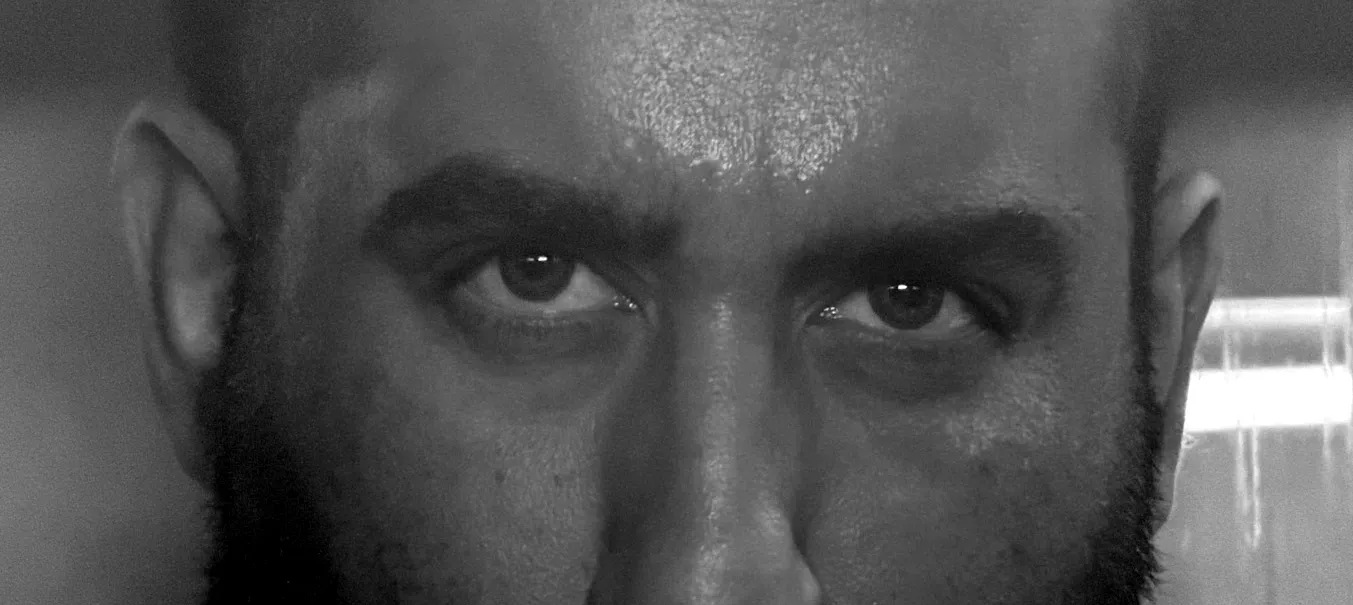
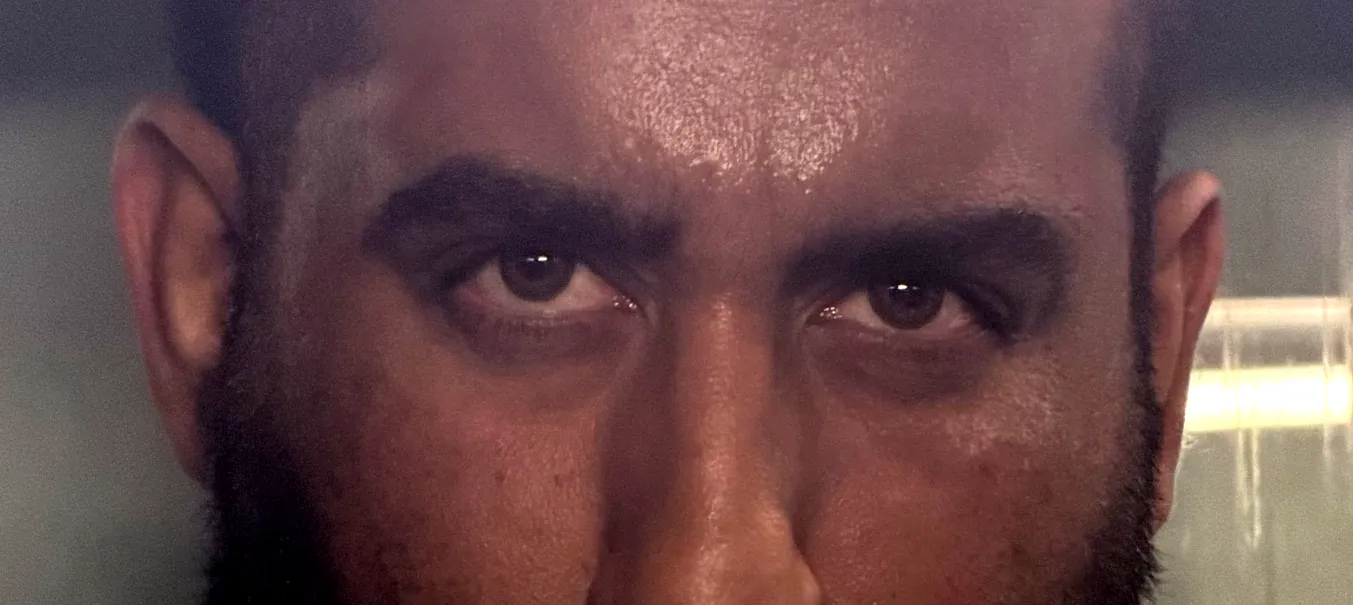
chore(actor): keep the elevator portraits in colour
Claude-Session: https://claude.ai/code/session_01ApzBe16aJShhTuUfapNU8M

diff --git a/portfolio/actor/index.html b/portfolio/actor/index.html
@@ -59,7 +59,7 @@
 <link rel="stylesheet" href="../css/style.css?v=75" />
 <link rel="stylesheet" href="../css/enhance.css" />
 <link rel="stylesheet" href="../css/upgrade.css?v=3" />
-<link rel="stylesheet" href="css/dramas.css?v=3" />
+<link rel="stylesheet" href="css/dramas.css?v=4" />
 </head>
 <body>
 
@@ -374,12 +374,12 @@
     </div>
     <div class="frames__wall">
       <figure class="frame" data-reveal><picture><source srcset="assets/frames/mirror.webp" type="image/webp" /><img src="assets/frames/mirror.jpg" alt="Adeel Rahman adjusting his shirt, sunglasses in hand" width="1000" height="1333" loading="lazy" decoding="async" /></picture><figcaption>Before the call</figcaption></figure>
-      <figure class="frame" data-reveal><picture><source srcset="assets/frames/stare.webp" type="image/webp" /><img src="assets/frames/stare.jpg" alt="Adeel Rahman, black-and-white close-up" width="1000" height="738" loading="lazy" decoding="async" /></picture><figcaption>Close-up</figcaption></figure>
+      <figure class="frame" data-reveal><picture><source srcset="assets/frames/stare.webp" type="image/webp" /><img src="assets/frames/stare.jpg" alt="Adeel Rahman, close-up" width="1000" height="738" loading="lazy" decoding="async" /></picture><figcaption>Close-up</figcaption></figure>
       <figure class="frame" data-reveal><picture><source srcset="assets/frames/lights-1.webp" type="image/webp" /><img src="assets/frames/lights-1.jpg" alt="Adeel Rahman in a navy blazer under amber pendant lights" width="845" height="1811" loading="lazy" decoding="async" /></picture><figcaption>Evening</figcaption></figure>
       <figure class="frame" data-reveal><picture><source srcset="assets/frames/lobby-3.webp" type="image/webp" /><img src="assets/frames/lobby-3.jpg" alt="Adeel Rahman in aviators and a navy blazer" width="771" height="1273" loading="lazy" decoding="async" /></picture><figcaption>Off duty</figcaption></figure>
       <figure class="frame" data-reveal><picture><source srcset="assets/frames/tailored.webp" type="image/webp" /><img src="assets/frames/tailored.jpg" alt="Adeel Rahman, full length, striped shirt and dark trousers" width="609" height="1687" loading="lazy" decoding="async" /></picture><figcaption>Fitted</figcaption></figure>
       <figure class="frame" data-reveal><picture><source srcset="assets/frames/lobby-1.webp" type="image/webp" /><img src="assets/frames/lobby-1.jpg" alt="Adeel Rahman in aviator sunglasses" width="744" height="1126" loading="lazy" decoding="async" /></picture><figcaption>Shades on</figcaption></figure>
-      <figure class="frame" data-reveal><picture><source srcset="assets/frames/profile.webp" type="image/webp" /><img src="assets/frames/profile.jpg" alt="Adeel Rahman, black-and-white, eyes to camera" width="1000" height="800" loading="lazy" decoding="async" /></picture><figcaption>The look</figcaption></figure>
+      <figure class="frame" data-reveal><picture><source srcset="assets/frames/profile.webp" type="image/webp" /><img src="assets/frames/profile.jpg" alt="Adeel Rahman, eyes to camera" width="1000" height="800" loading="lazy" decoding="async" /></picture><figcaption>The look</figcaption></figure>
       <figure class="frame" data-reveal><picture><source srcset="assets/frames/lights-2.webp" type="image/webp" /><img src="assets/frames/lights-2.jpg" alt="Adeel Rahman beneath gold wire chandeliers" width="707" height="1713" loading="lazy" decoding="async" /></picture><figcaption>Under the lights</figcaption></figure>
       <figure class="frame" data-reveal><picture><source srcset="assets/frames/lobby-2.webp" type="image/webp" /><img src="assets/frames/lobby-2.jpg" alt="Adeel Rahman in aviators, open-collar striped shirt" width="735" height="1224" loading="lazy" decoding="async" /></picture><figcaption>Travelling</figcaption></figure>
     </div>
